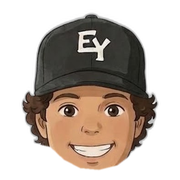
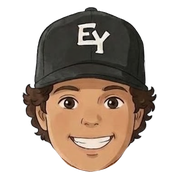
Add files via upload

Changed region(s): [[0.1111, 0.0278, 0.8889, 0.9722], [0.4167, 0.3333, 0.5, 0.3611]]

diff --git a/index.html b/index.html
@@ -281,6 +281,7 @@
       <button data-act="subsMenu"><span>Subtitles</span><span>›</span></button>
       <button data-act="watched">Mark watched</button>
       <button data-act="copy">Save copy in app</button>
+      <button data-act="export">Save to Files</button>
       <button data-act="delete" class="danger">Delete</button>
     </div>
     <div class="btns"><button class="btn" data-close>Close</button></div>
@@ -947,6 +948,10 @@
     $('#subsMenuSheet [data-act="subsRemove"]').hidden = !m.vtt;
     $('#subsMenuSheet [data-act="subs"]').textContent = m.vtt ? 'Replace subtitle file' : 'Add subtitle file';
     show('copy', !m.stored && state.session.has(m.id) && !!opfsDir);
+    show('export', !!m.stored);
+    // Load the file now so the share sheet can open straight from the tap (iPadOS requires that).
+    exportFiles = null;
+    if (m.stored) prepareExport(m).then((fs) => { if (menuMovie === m) exportFiles = fs; });
     $('#menuSheet [data-act="watched"]').textContent = m.watched ? 'Mark unwatched' : 'Mark watched';
     openSheet('#menuSheet');
   }
@@ -968,6 +973,7 @@
     else if (act === 'subsRemove') { m.vtt = null; await dbPut(m); render(); }
     else if (act === 'watched') { m.watched = !m.watched; if (!m.watched) m.position = 0; await dbPut(m); render(); }
     else if (act === 'copy') work(() => saveCopy(m));
+    else if (act === 'export') exportMovie(m);
     else if (act === 'delete') {
       $('#deleteTitle').textContent = `Delete ${m.title}?`;
       $('#deleteText').textContent = m.stored
@@ -1000,6 +1006,43 @@
     const f = e.target.files[0]; e.target.value = ''; const m = menuMovie; if (!f || !m) return;
     m.vtt = await readSubs(f); await dbPut(m); render(); toastDone('Subtitles added.');
   });
+
+  // ---------- save a movie back out to Files ----------
+  let exportFiles = null;
+  function vttToSrt(v) {
+    const blocks = v.replace(/\r/g, '').replace(/^WEBVTT[^\n]*\n+/, '').split(/\n{2,}/);
+    let n = 0; const out = [];
+    for (const b of blocks) {
+      const lines = b.split('\n'); const i = lines.findIndex((l) => l.includes('-->'));
+      if (i < 0) continue;
+      const time = lines[i].replace(/(\d{2}:\d{2}:\d{2})\.(\d{3})/g, '$1,$2').replace(/(^|\s)(\d{2}:\d{2})\.(\d{3})/g, '$100:$2,$3').split(/\s+(?=line|position|align|size)/)[0];
+      out.push(String(++n), time, ...lines.slice(i + 1), '');
+    }
+    return out.join('\n');
+  }
+  async function prepareExport(m) {
+    const f = await getVideoFile(m); if (!f) return null;
+    const name = m.videoName || (m.title + '.mp4');
+    const files = [new File([f], name, { type: f.type || 'video/mp4' })];
+    if (m.vtt) files.push(new File([vttToSrt(m.vtt)], baseOf(name) + '.srt', { type: 'text/plain' }));
+    return files;
+  }
+  async function exportMovie(m) {
+    const files = exportFiles || await prepareExport(m);
+    if (!files) { toastDone("Couldn't find this movie's saved copy."); return; }
+    if (navigator.canShare && navigator.share) {
+      try {
+        if (navigator.canShare({ files })) { await navigator.share({ files }); toastDone('Pick "Save to Files" in the share sheet, then choose a folder.', 6000); return; }
+      } catch (e) { if (e && e.name === 'AbortError') return; }
+    }
+    // Fallback: a normal download, which Safari saves to your Downloads folder.
+    for (const f of files) {
+      const u = URL.createObjectURL(f); const a = document.createElement('a');
+      a.href = u; a.download = f.name; document.body.appendChild(a); a.click(); a.remove();
+      setTimeout(() => URL.revokeObjectURL(u), 120000);
+    }
+    toastDone('Downloading to your Files downloads folder.', 6000);
+  }
 
   // ---------- poster search ----------
   let posterMovie = null;

diff --git a/sw.js b/sw.js
@@ -1,5 +1,5 @@
 // Keeps the app itself available offline. Movies are stored separately by the page.
-const CACHE = 'malakai-movies-v5';
+const CACHE = 'malakai-movies-v7';
 const ASSETS = ['./', './index.html', './manifest.webmanifest', './icon-180.png', './icon-192.png', './icon-512.png', './title-font.ttf'];
 
 self.addEventListener('install', (e) => {
